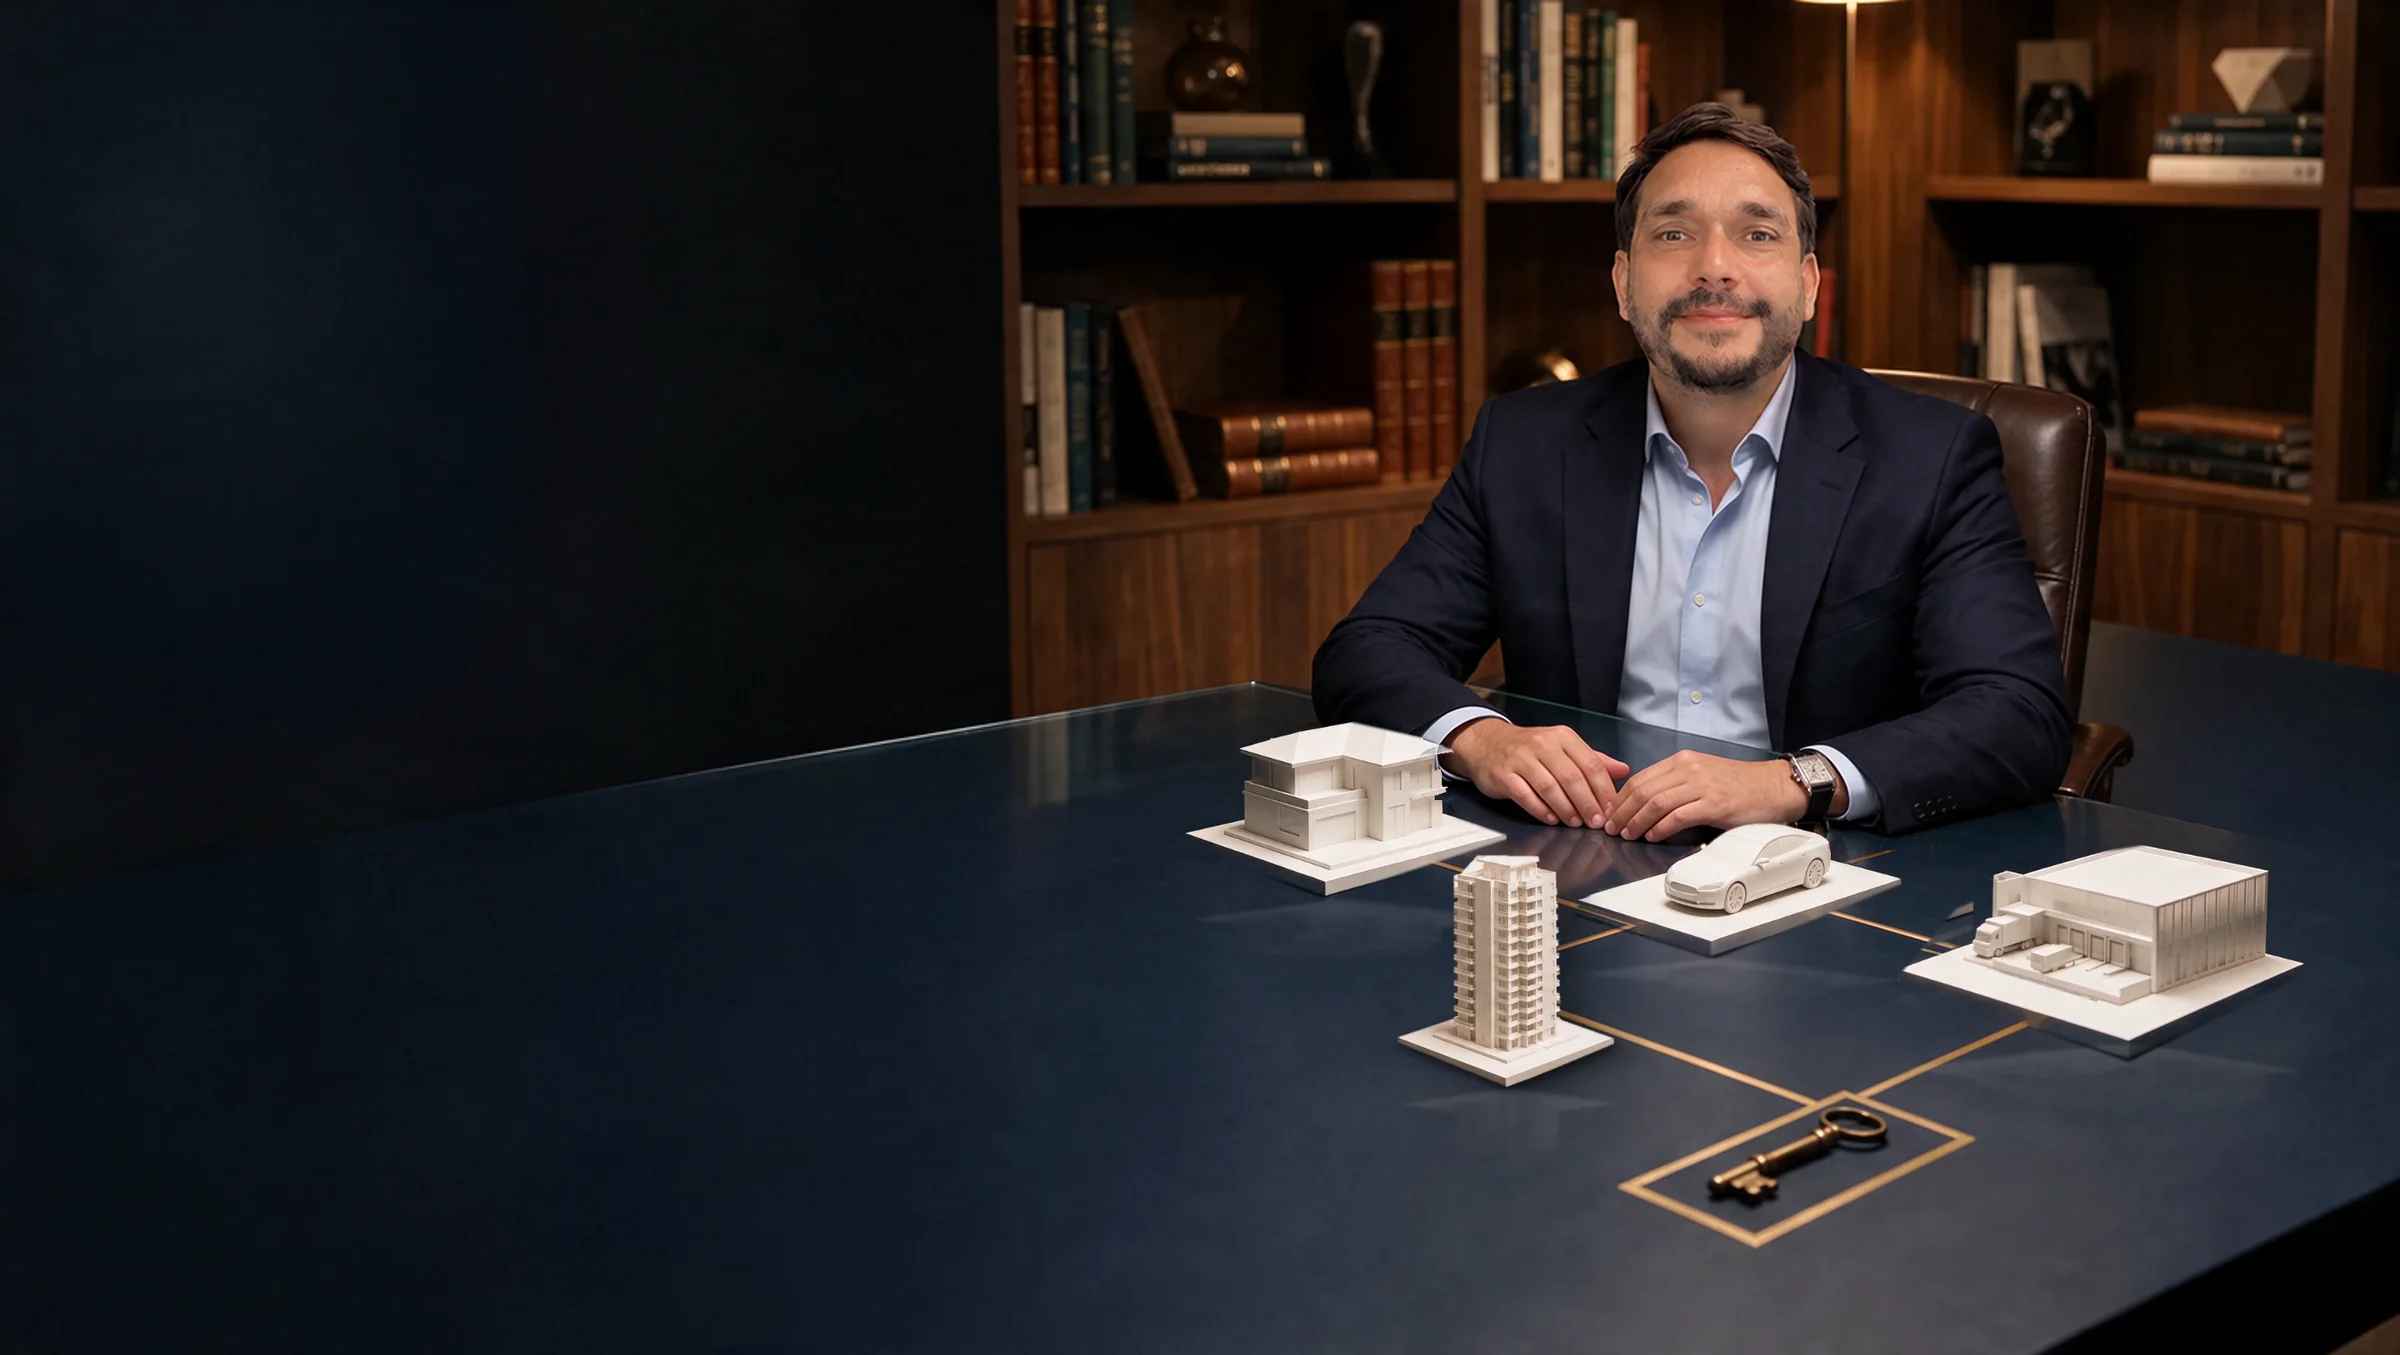
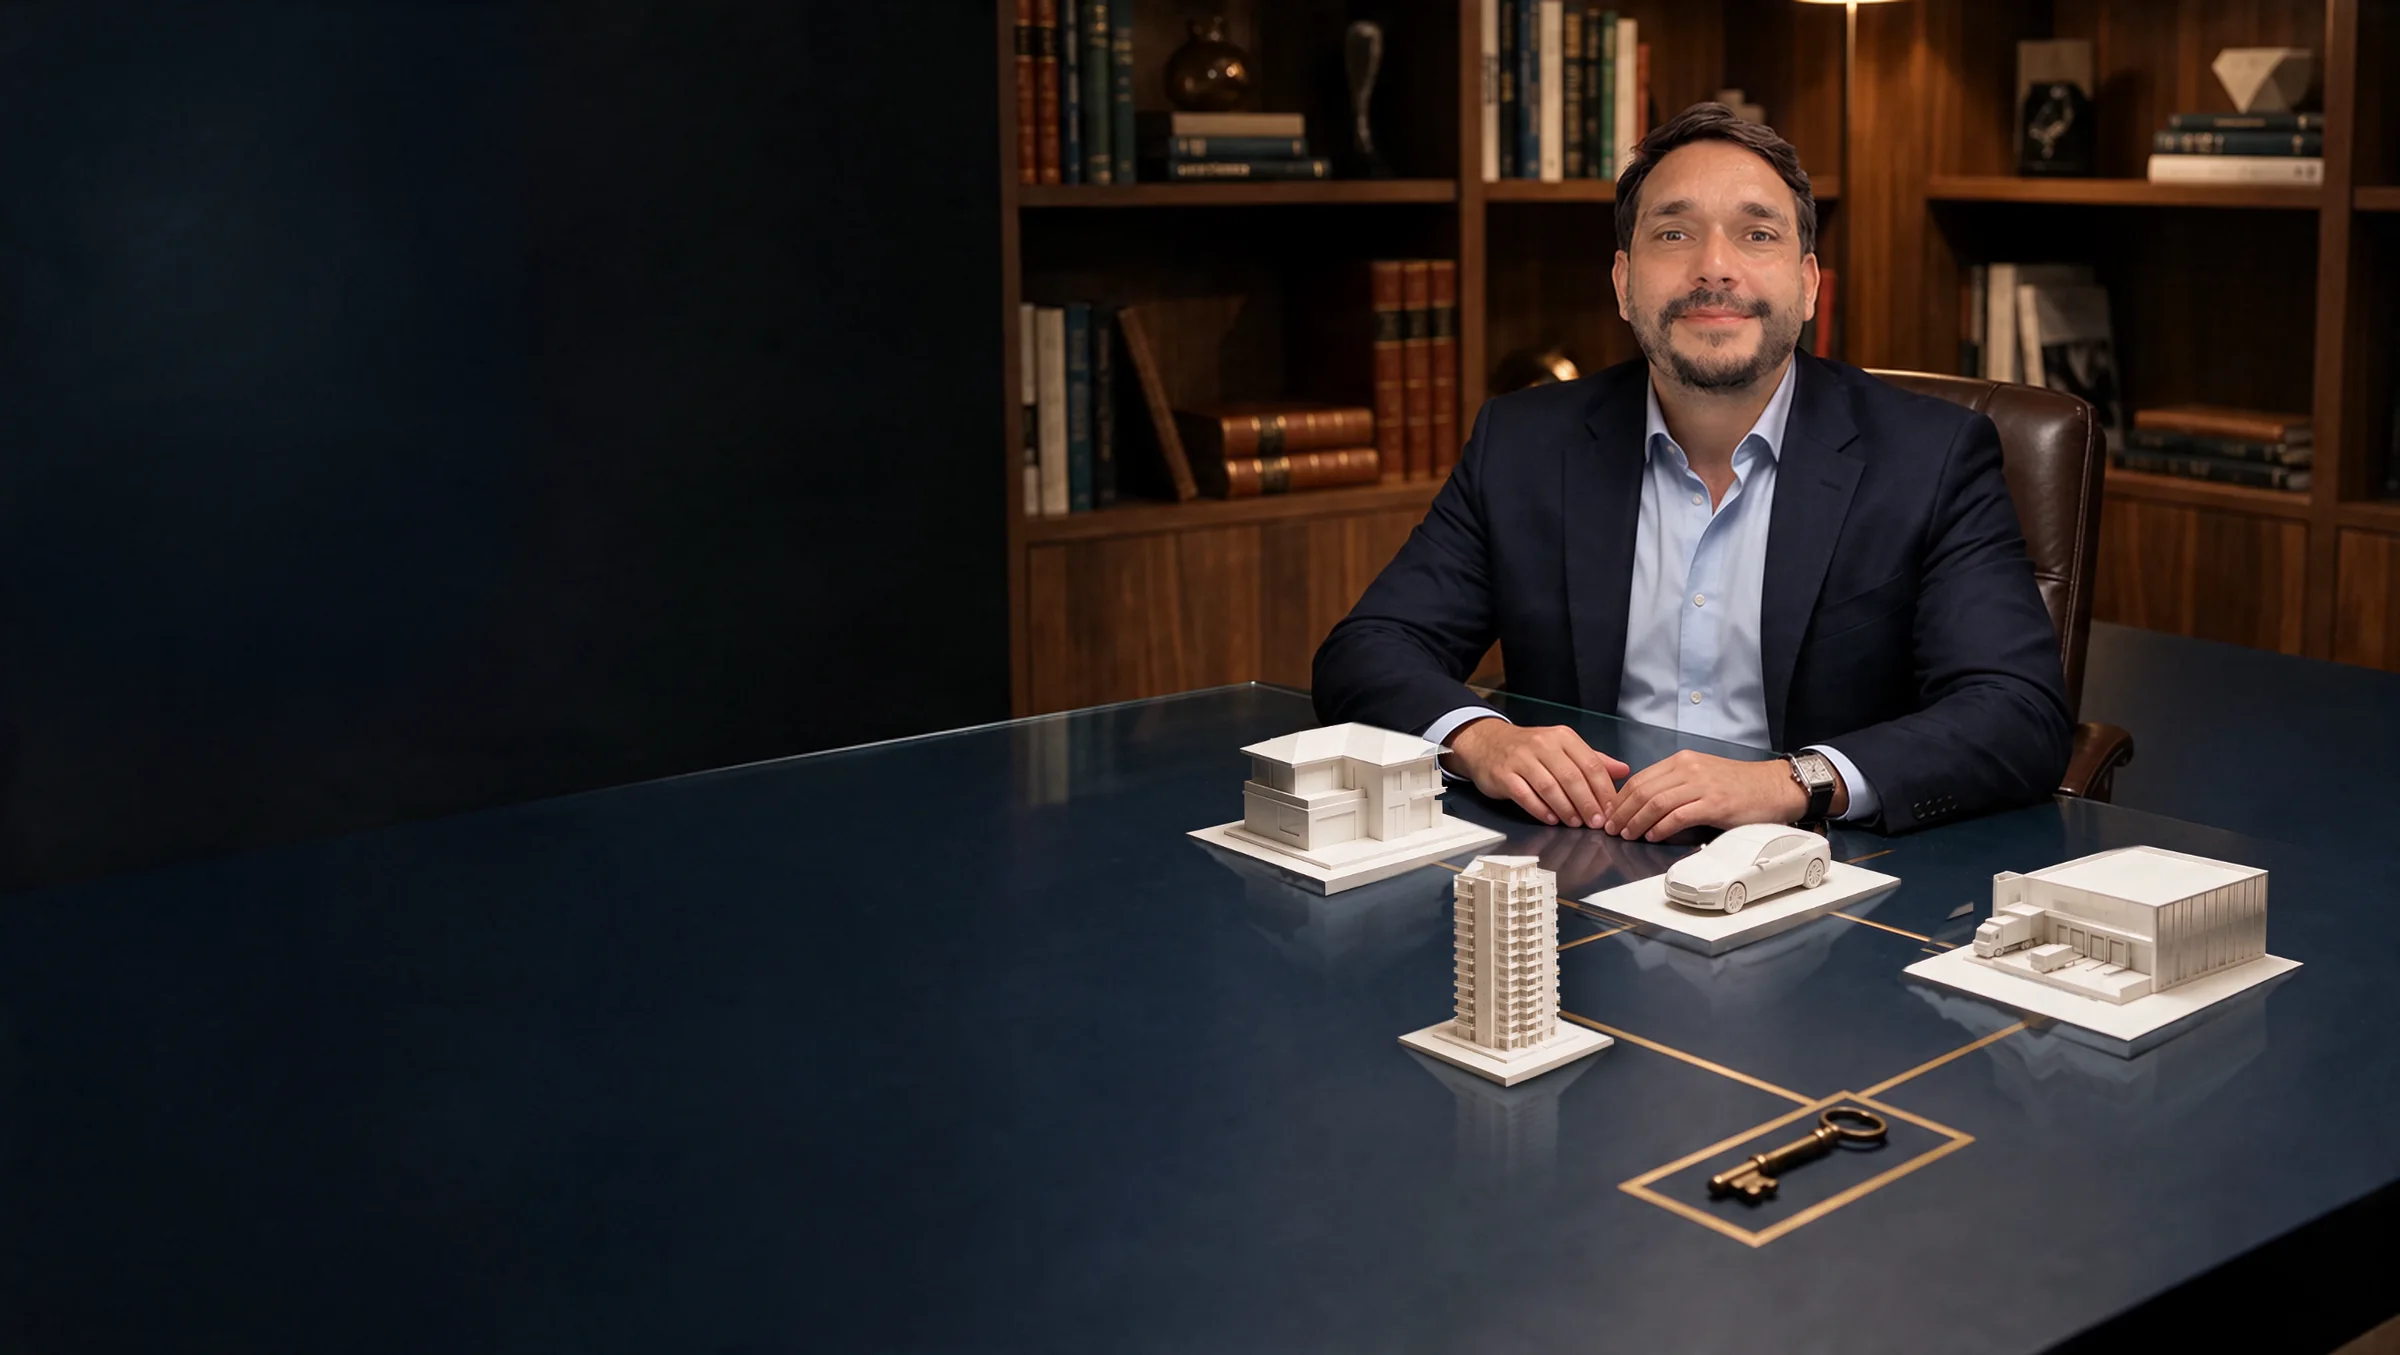
Topo: reflexo dos bens no vidro na mesma intensidade do reflexo das mãos
Claude-Session: https://claude.ai/code/session_01PWsREDKrVSqGNK6L7kcVFr

diff --git a/app/components/Hero.jsx b/app/components/Hero.jsx
@@ -24,10 +24,10 @@ const PONTOS = [
 const BRILHOS = [{ x: 1850, y: 1125 }];
 // ordem do pouso: casa, carro, galpão e prédio (o prédio fica na frente)
 const POUSO = [
-  { obj: '/pouso2/casa.webp', sombra: '/pouso2/casa-sombra.webp', reflexo: '/pouso2/casa-reflexo.webp', x: 1180, y: 711, w: 334, h: 253, ponto: 0 },
-  { obj: '/pouso2/carro.webp', sombra: '/pouso2/carro-sombra.webp', reflexo: '/pouso2/carro-reflexo.webp', x: 1567, y: 814, w: 341, h: 191, ponto: 2 },
-  { obj: '/pouso2/galpao.webp', sombra: '/pouso2/galpao-sombra.webp', reflexo: '/pouso2/galpao-reflexo.webp', x: 1891, y: 840, w: 419, h: 278, ponto: 3 },
-  { obj: '/pouso2/predio.webp', sombra: '/pouso2/predio-sombra.webp', reflexo: '/pouso2/predio-reflexo.webp', x: 1383, y: 833, w: 281, h: 342, ponto: 1 },
+  { obj: '/pouso2/casa.webp', sombra: '/pouso2/casa-sombra.webp', reflexo: '/pouso2/casa-reflexo.webp', x: 1180, y: 711, w: 334, h: 289, ponto: 0 },
+  { obj: '/pouso2/carro.webp', sombra: '/pouso2/carro-sombra.webp', reflexo: '/pouso2/carro-reflexo.webp', x: 1567, y: 814, w: 341, h: 214, ponto: 2 },
+  { obj: '/pouso2/galpao.webp', sombra: '/pouso2/galpao-sombra.webp', reflexo: '/pouso2/galpao-reflexo.webp', x: 1891, y: 840, w: 419, h: 319, ponto: 3 },
+  { obj: '/pouso2/predio.webp', sombra: '/pouso2/predio-sombra.webp', reflexo: '/pouso2/predio-reflexo.webp', x: 1383, y: 833, w: 281, h: 391, ponto: 1 },
 ];
 
 // Antes de a página aparecer: os bens viram peças soltas sobre a mesa (ci-bens) e o pouso roda na primeira visita.
